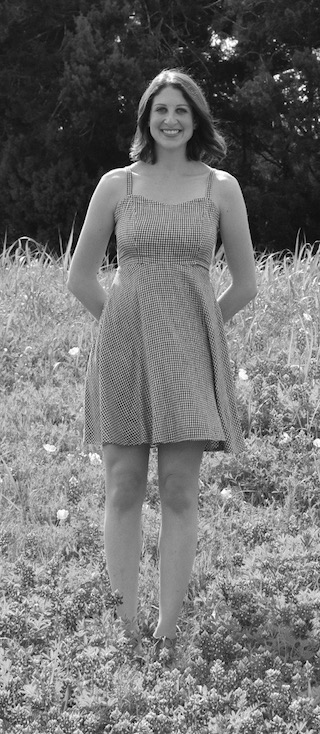
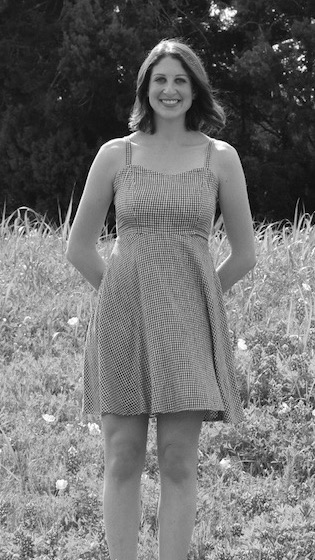
added JS

diff --git a/Resume/resume.html b/Resume/resume.html
@@ -2,22 +2,24 @@
 <head>
   <meta charset="UTF-8">
   <meta name="viewport" content="width=<device-width>, initial-scale=1.0">
-  <link rel="stylesheet" href="./resume-style.css">
+  <link rel="stylesheet" href="https://cdnjs.cloudflare.com/ajax/libs/animate.css/3.7.2/animate.min.css">
   <link href="https://fonts.googleapis.com/css2?family=Roboto:wght@100;500;900&display=swap" rel="stylesheet">
+  <link rel="stylesheet" href="./resume-style.css">
+  <script src="resume-interactive.js"></script>
   <title>Shelby Gottschall Resume</title>
 </head>
 <body>
   <main>
     <div class="container">
       <section class="image-wrapper">
-        <img src="./bw-headshot.JPG" class="headshot" alt="headshot">
+        <img src="./bw-headshot.JPG" class="headshot" alt="headshot" onmouseover="disappear(this)">
       </section>
 
       <section class="contact-references">
         <article>
           <h3 class="category-title">Contact Details</h3>
           <ul class="no-bullets">
-            <li>123-456-7890</li>
+            <li class="contact-phone" onclick="appear(this)">123-456-7890</li>
             <li>EmailAddress@gmail.com</li>
             <li>MyPortfolioWebsite.com</li>
           </ul>
@@ -42,7 +44,7 @@
 
       <section class="personal-history-container">
         <article>
-          <h1>Shelby Gottschall</h1>
+          <h1 id="animated-name" onclick="fade(this)">Shelby Gottschall</h1>
           <h2 class="uppercase">Web Developer</h2>
         </article>
 
@@ -66,7 +68,7 @@
         </article>
 
         <article>
-          <h3 class="category-title">Work History</h3>
+          <h3 class="category-title" onclick="appear(this)">Work History</h3>
           <section class="work-academic">
             <div>
               <h4 class="uppercase">Job Title One</h4>

diff --git a/Resume/resume-style.css b/Resume/resume-style.css
@@ -52,13 +52,11 @@ p, ul {
 
 .image-wrapper {
   grid-area: 1 / 1 / 2 /2;
-  max-height: 538px;
-  /* background-image: url(./bw-headshot.JPG);
-  background-size: cover; */
+  background-color: #3A41E5;
 } 
 
 .headshot {
-  max-width: 100%;
+  width: 100%;
 }
 
 .contact-references {
@@ -69,6 +67,10 @@ p, ul {
   display: grid;
   justify-items: center;
   align-items: center;
+}
+
+.contact-phone {
+  color: #3A41E5;
 }
 
 .personal-history-container {

diff --git a/Resume/resume-interactive.js b/Resume/resume-interactive.js
@@ -1,0 +1,11 @@
+const fade = (element) => {
+  element.classList.add("animated", "fadeIn");
+}
+
+const appear = (element) => {
+  element.style.color = "white";
+}
+
+const disappear = (element) => {
+  element.hidden = true;
+}
